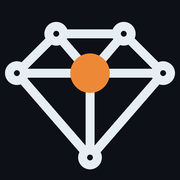
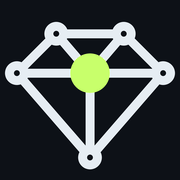
Switch accent color to lime and refresh brand assets

Changed region(s): [[0.3889, 0.2778, 0.6111, 0.5278]]

diff --git a/index.html b/index.html
@@ -125,7 +125,7 @@
 <style>
 :root{
   --bg:#0d1117;--bg2:#151b23;--card:#1a222c;--ink:#e6edf3;--muted:#8b98a5;
-  --accent:#ed8936;--teal:#4cc9f0;--line:#2b3644;
+  --accent:#c8ff6b;--teal:#4cc9f0;--line:#2b3644;
   --radius:14px;--pad:16px;
   font-size:16px;
 }
